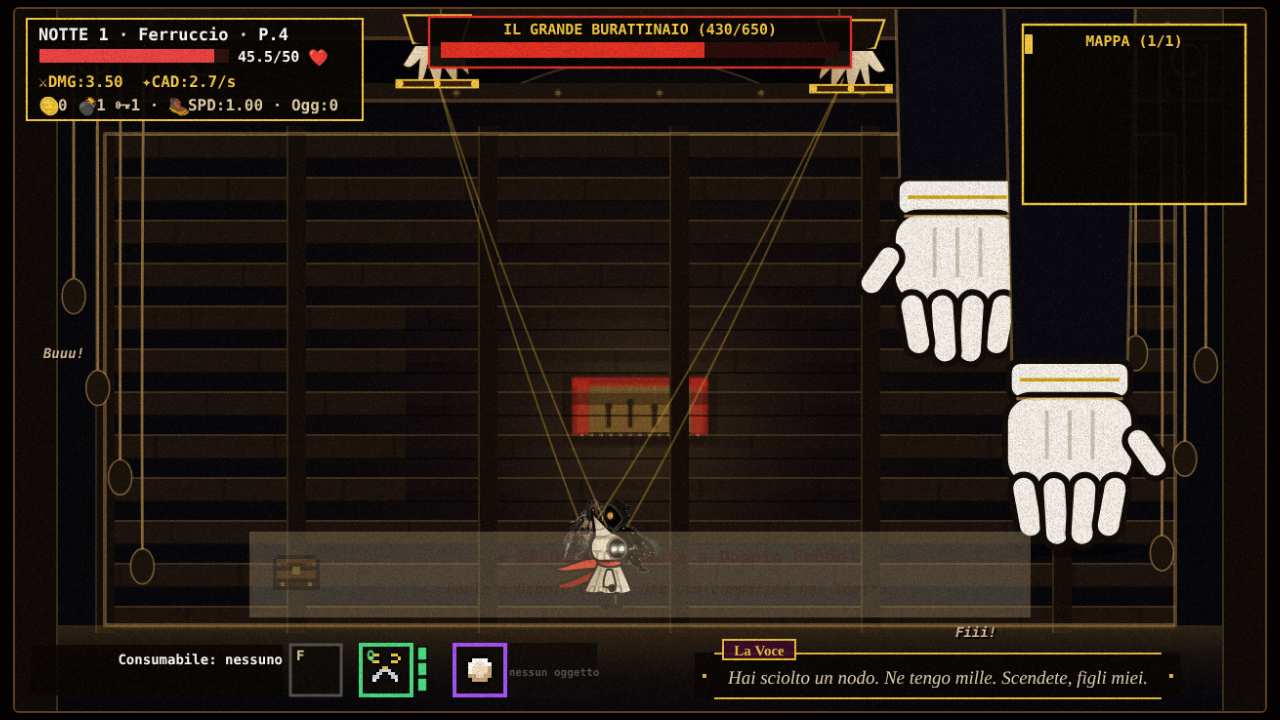
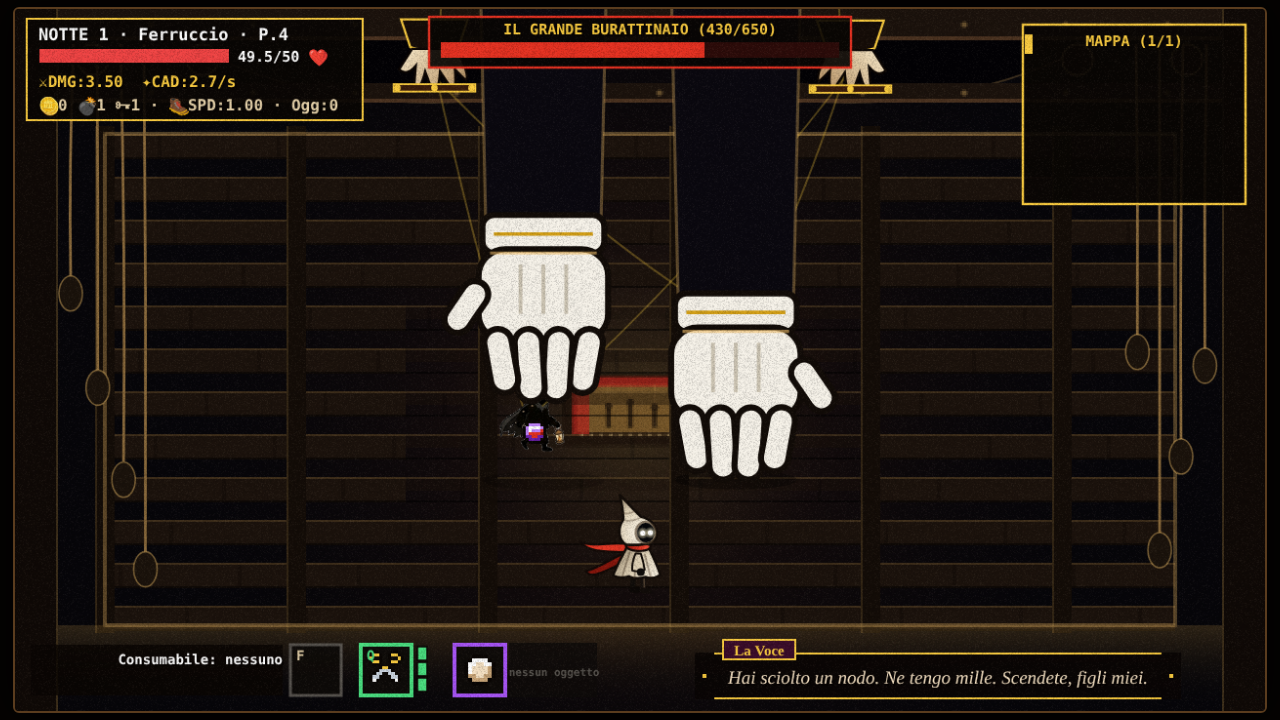
feat(teatro): d1 forbici colossali (si aprono, tremano, si chiudono di scatto) e squarcio vero nel tavolato; QA senza cartigli
Story: d1-burattinaio

Claude-Session: https://claude.ai/code/session_01F5x6kDAQ4qaiYDiFx9jQb5

diff --git a/gioco/teatro/d1-burattinaio.js b/gioco/teatro/d1-burattinaio.js
@@ -46,9 +46,9 @@ const BURATTINAIO_D1 = Object.freeze({
     moltTenaglie: 1.7,                 // sigillo delle tenaglie: tempo a terra ×
   }),
   forbici: Object.freeze({
-    raggio: 28, lunghezza: 128,
+    raggio: 30, lunghezza: 380,                  // lame lunghe quasi mezza arena, manici fuori quadro
     posa: 44, apre: 46, apreLima: 80, taglio: 24, piantate: 80, moltLima: 1.9, stacca: 22,
-    larghezzaTaglio: 15, danno: 2, cicatriciMax: 6,
+    larghezzaTaglio: 15, danno: 2, cicatriciMax: 4, squarcioTick: 300, tremitoApre: 2.2,
   }),
   marionette: Object.freeze({
     tipi: Object.freeze(['burattino', 'guardia', 'predone']),
@@ -456,7 +456,9 @@ function iaForbiciD1(f, puoAttaccare) {
     }
     case 'apre': { // le lame si aprono piano verso il bersaglio: l'avviso è la posa
       const dur = lima ? F.apreLima : F.apre;
-      f.apertura = 0.12 + 0.75 * Math.min(1, f.tD1 / dur);
+      f.apertura = 0.12 + 0.75 * Math.min(1, f.tD1 / dur) + (f.tD1 > dur * 0.5 ? Math.sin(f.tD1 * 2.3) * 0.03 : 0);
+      f.tremaD1 = f.tD1 > dur * 0.5 ? F.tremitoApre : 0;
+      if (f.tD1 === Math.round(dur * 0.5)) suonoD1('lama', 0.6);
       if (f.tD1 < dur * 0.6) { f.a = { x: player.x, y: player.y }; f.ang = Math.atan2(f.a.y - f.y, f.a.x - f.x); }
       if (f.tD1 >= dur) {
         // il taglio attraversa tutta l'arena lungo la diagonale scelta
@@ -474,7 +476,8 @@ function iaForbiciD1(f, puoAttaccare) {
       const k = Math.min(1, f.tD1 / F.taglio);
       const px = f.x, py = f.y;
       f.x = f.inizio.x + (f.fine.x - f.inizio.x) * k; f.y = f.inizio.y + (f.fine.y - f.inizio.y) * k; f.h = 4;
-      f.apertura = 0.87 * (1 - k);
+      f.apertura = k < 0.25 ? 0.87 * (1 - k / 0.25) : 0; // si chiudono di scatto
+      f.tremaD1 = 0;
       // segmento percorso in questo tick: tocca se il giocatore è vicino alla lama
       const dx = f.x - px, dy = f.y - py, l2 = dx * dx + dy * dy || 1;
       const u = Math.max(0, Math.min(1, ((player.x - px) * dx + (player.y - py) * dy) / l2));
@@ -571,6 +574,8 @@ function passoD1() {
   d1.t++;
   d1.tremito = Math.max(0, d1.tremito - 0.02);
   for (const e of d1.effetti) e.t++;
+  for (const c of d1.cicatrici) c.t++;
+  while (d1.cicatrici.length && d1.cicatrici[0].t > BURATTINAIO_D1.forbici.squarcioTick) d1.cicatrici.shift();
   for (let i = d1.effetti.length - 1; i >= 0; i--) if (d1.effetti[i].t > 90) d1.effetti.splice(i, 1);
   if (d1.vittoria) { passoVittoriaD1(); return; }
 
@@ -848,18 +853,42 @@ function disegnaArenaD1() {
   if (!telaFondoD1) telaFondoD1 = preparaFondoD1();
   if (!telaTraviD1) telaTraviD1 = preparaTraviD1();
   ctx.drawImage(telaFondoD1, 0, 0);
-  // i tagli delle forbici restano sulle tavole (dopo il colpo, mai prima)
-  ctx.save();
-  for (const c of d1.cicatrici) {
-    ctx.strokeStyle = 'rgba(0,0,0,0.85)'; ctx.lineWidth = 4;
-    ctx.beginPath(); ctx.moveTo(c.x1, c.y1); ctx.lineTo(c.x2, c.y2); ctx.stroke();
-    ctx.strokeStyle = 'rgba(232,176,80,0.35)'; ctx.lineWidth = 1;
-    ctx.beginPath(); ctx.moveTo(c.x1, c.y1 + 2); ctx.lineTo(c.x2, c.y2 + 2); ctx.stroke();
-  }
-  ctx.restore();
+  // i tagli delle forbici restano sulle tavole per qualche secondo (dopo il colpo, mai prima)
+  for (const c of d1.cicatrici) disegnaSquarcioD1(c);
   disegnaCapoD1();
   ctx.drawImage(telaTraviD1, 0, 0);
   disegnaCordeD1();
+}
+
+/** Lo squarcio del tavolato: assi spezzate, schegge, la luce del palco che sale dal buco. */
+function disegnaSquarcioD1(c) {
+  const vita = 1 - c.t / BURATTINAIO_D1.forbici.squarcioTick;
+  const dx = c.x2 - c.x1, dy = c.y2 - c.y1, L = Math.hypot(dx, dy) || 1;
+  const nx = -dy / L, ny = dx / L;
+  ctx.save();
+  ctx.globalAlpha = Math.min(1, vita * 1.6);
+  // luce calda che sale da sotto (più forte appena tagliato)
+  ctx.globalCompositeOperation = 'lighter';
+  ctx.strokeStyle = `rgba(232,176,80,${0.18 + 0.35 * vita})`; ctx.lineWidth = 16; ctx.lineCap = 'round';
+  ctx.beginPath(); ctx.moveTo(c.x1, c.y1); ctx.lineTo(c.x2, c.y2); ctx.stroke();
+  ctx.globalCompositeOperation = 'source-over';
+  // il buco: frastagliato, nero
+  ctx.fillStyle = '#020103';
+  ctx.beginPath();
+  const n = Math.max(6, Math.round(L / 18));
+  for (let i = 0; i <= n; i++) { const k = i / n, w = 3 + ((i * 7) % 4); ctx.lineTo(c.x1 + dx * k + nx * w, c.y1 + dy * k + ny * w); }
+  for (let i = n; i >= 0; i--) { const k = i / n, w = 3 + ((i * 5) % 4); ctx.lineTo(c.x1 + dx * k - nx * w, c.y1 + dy * k - ny * w); }
+  ctx.closePath(); ctx.fill();
+  // filo di luce nel fondo del buco
+  ctx.strokeStyle = `rgba(255,214,140,${0.5 * vita + 0.2})`; ctx.lineWidth = 1.2;
+  ctx.beginPath(); ctx.moveTo(c.x1, c.y1); ctx.lineTo(c.x2, c.y2); ctx.stroke();
+  // assi spezzate: schegge alzate ai bordi
+  ctx.strokeStyle = '#3a2716'; ctx.lineWidth = 2;
+  for (let i = 1; i < n; i += 2) {
+    const k = i / n, s = i % 4 === 1 ? 1 : -1, bx = c.x1 + dx * k + nx * 5 * s, by = c.y1 + dy * k + ny * 5 * s;
+    ctx.beginPath(); ctx.moveTo(bx, by); ctx.lineTo(bx + nx * 7 * s + dx / L * 3, by + ny * 7 * s - 4); ctx.stroke();
+  }
+  ctx.restore();
 }
 
 /** Guanto bianco. (x, y) = punto dove tocca le tavole; h = altezza da terra. */
@@ -924,7 +953,7 @@ function disegnaForbiciSagomaD1(x, y, ang, apertura, h, flash, alfa = 1) {
   ctx.save();
   ctx.globalAlpha *= alfa;
   ctx.fillStyle = `rgba(0,0,0,${0.3 * Math.max(0, 1 - h / 60)})`;
-  ctx.beginPath(); ctx.ellipse(x, y + 2, 26, 5, 0, 0, TAU); ctx.fill();
+  ctx.beginPath(); ctx.ellipse(x, y + 2, 30, 6, 0, 0, TAU); ctx.fill();
   ctx.translate(x, y - h - 6);
   ctx.rotate(ang);
   const lama = (segno) => {
@@ -932,23 +961,25 @@ function disegnaForbiciSagomaD1(x, y, ang, apertura, h, flash, alfa = 1) {
     const gr = ctx.createLinearGradient(0, -6, 0, 6);
     gr.addColorStop(0, TINTE_D1.ottoneLuce); gr.addColorStop(0.5, flash ? '#fff1c0' : TINTE_D1.ottone); gr.addColorStop(1, TINTE_D1.ottoneOmbra);
     ctx.fillStyle = gr;
-    ctx.beginPath(); ctx.moveTo(-6, -segno * 1); ctx.lineTo(L * 0.62, -segno * 6.5); ctx.lineTo(L * 0.62, segno * 0.5); ctx.closePath(); ctx.fill();
+    ctx.beginPath(); ctx.moveTo(-10, -segno * 2); ctx.quadraticCurveTo(L * 0.3, -segno * 17, L * 0.62, -segno * 1.5); ctx.lineTo(L * 0.62, segno * 0.5); ctx.lineTo(-10, segno * 3); ctx.closePath(); ctx.fill();
     ctx.strokeStyle = TINTE_D1.china; ctx.lineWidth = 1.3; ctx.stroke();
     // anello del manico
-    ctx.beginPath(); ctx.ellipse(-L * 0.28, segno * 5, 12, 7, segno * 0.3, 0, TAU);
-    ctx.strokeStyle = TINTE_D1.ottone; ctx.lineWidth = 4.5; ctx.stroke();
+    ctx.beginPath(); ctx.ellipse(-L * 0.24, segno * 14, 30, 16, segno * 0.3, 0, TAU);
+    ctx.strokeStyle = TINTE_D1.ottone; ctx.lineWidth = 8; ctx.stroke();
     ctx.strokeStyle = TINTE_D1.china; ctx.lineWidth = 1; ctx.stroke();
-    ctx.beginPath(); ctx.moveTo(-6, segno * 1); ctx.lineTo(-L * 0.18, segno * 4); ctx.strokeStyle = TINTE_D1.ottone; ctx.lineWidth = 4; ctx.stroke();
+    ctx.beginPath(); ctx.moveTo(-8, segno * 2); ctx.lineTo(-L * 0.17, segno * 10); ctx.strokeStyle = TINTE_D1.ottone; ctx.lineWidth = 8; ctx.stroke();
     ctx.restore();
   };
   lama(1); lama(-1);
-  ctx.fillStyle = '#2a1a06'; ctx.beginPath(); ctx.arc(0, 0, 4, 0, TAU); ctx.fill();
-  ctx.strokeStyle = TINTE_D1.ottoneLuce; ctx.lineWidth = 1; ctx.stroke();
+  ctx.fillStyle = '#2a1a06'; ctx.beginPath(); ctx.arc(0, 0, 9, 0, TAU); ctx.fill();
+  ctx.strokeStyle = TINTE_D1.ottoneLuce; ctx.lineWidth = 2; ctx.stroke();
+  ctx.strokeStyle = TINTE_D1.ottone; ctx.lineWidth = 1.5; ctx.beginPath(); ctx.moveTo(-5, 0); ctx.lineTo(5, 0); ctx.stroke();
   ctx.restore();
 }
 
 function disegnaForbiciD1(f) {
-  disegnaForbiciSagomaD1(f.x, f.y, f.ang || 0, f.apertura || 0, f.h || 0, f.flash > 0);
+  const tr = f.tremaD1 ? Math.sin(tick * 1.9) * f.tremaD1 : 0;
+  disegnaForbiciSagomaD1(f.x + tr, f.y, f.ang || 0, f.apertura || 0, f.h || 0, f.flash > 0);
   if (f.faseD1 === 'apre' && f.tD1 % 12 < 3) { // bagliore sulla lama aperta (sulla forbice, non a terra)
     ctx.save(); ctx.globalAlpha = 0.8; ctx.fillStyle = '#fff6d0';
     ctx.beginPath(); ctx.arc(f.x + Math.cos(f.ang) * 30, f.y - (f.h || 0) - 6 + Math.sin(f.ang) * 30, 2.4, 0, TAU); ctx.fill(); ctx.restore();

diff --git a/tools/qa-teatro-burattinaio.js b/tools/qa-teatro-burattinaio.js
@@ -45,6 +45,8 @@ const foto = (n) => `${prefisso}-${n}.png`;
     await p.keyboard.press('Space'); // menu → hub
     await p.waitForTimeout(400);
   };
+  /** Le foto devono mostrare lo scontro: via i cartigli «SBLOCCATO» del salvataggio vuoto. */
+  const senzaCartigli = () => p.evaluate(() => { try { a6.coda.length = 0; a6.notifica = null; } catch (_) { /* a6 assente */ } });
 
   // ---- 1. Zero sigilli: ingresso, attacchi, atti, vittoria ----
   await avvio();
@@ -59,13 +61,13 @@ const foto = (n) => `${prefisso}-${n}.png`;
   ok('zero-sigilli', !s.sigilli.tenaglie && !s.sigilli.punzone && !s.sigilli.lima, s.sigilli);
   await immortale();
   await p.waitForTimeout(2200);
-  await p.screenshot({ path: foto('01-atto1') });
+  await senzaCartigli(); await p.screenshot({ path: foto('01-atto1') });
   const pugno = await aspetta(() => window.__teatro.interni.burattinaioD1.stato().parti.some((x) => x.fase === 'pugno'), 12000, 50);
   ok('mano-a-pugno', pugno);
-  await p.screenshot({ path: foto('02-pugno') });
+  await senzaCartigli(); await p.screenshot({ path: foto('02-pugno') });
   const colpo = await aspetta(() => window.__teatro.interni.burattinaioD1.stato().parti.some((x) => x.fase === 'terra'), 6000, 50);
   ok('mano-a-terra', colpo);
-  await p.screenshot({ path: foto('03-schianto') });
+  await senzaCartigli(); await p.screenshot({ path: foto('03-schianto') });
 
   // pausa: lo scontro si ferma
   await p.keyboard.press('Escape');
@@ -85,10 +87,10 @@ const foto = (n) => `${prefisso}-${n}.png`;
   const marionette = await aspetta(() => window.__teatro.interni.burattinaioD1.stato().parti.some((x) => x.elite), 12000);
   ok('marionette-elite', marionette, (await S()).parti);
   await p.waitForTimeout(900);
-  await p.screenshot({ path: foto('04-atto2') });
+  await senzaCartigli(); await p.screenshot({ path: foto('04-atto2') });
   const presa = await aspetta(() => window.__teatro.interni.burattinaioD1.stato().parti.some((x) => x.fase === 'segui' || x.fase === 'chiude' || x.fase === 'tiene'), 15000, 50);
   ok('presa-tentata', presa);
-  await p.screenshot({ path: foto('05-presa') });
+  await senzaCartigli(); await p.screenshot({ path: foto('05-presa') });
 
   // atto III
   await p.evaluate(() => window.__teatro.interni.burattinaioD1.danneggia(500));
@@ -98,22 +100,22 @@ const foto = (n) => `${prefisso}-${n}.png`;
   const apre = await aspetta(() => window.__teatro.interni.burattinaioD1.stato().parti.some((x) => x.id === 'gb-forbici' && x.fase === 'apre'), 12000, 50);
   ok('forbici-aprono', apre);
   await p.waitForTimeout(400);
-  await p.screenshot({ path: foto('06-forbici') });
+  await senzaCartigli(); await p.screenshot({ path: foto('06-forbici') });
   const piantate = await aspetta(() => window.__teatro.interni.burattinaioD1.stato().parti.some((x) => x.id === 'gb-forbici' && x.fase === 'piantate'), 8000, 50);
   ok('forbici-tagliano', piantate);
-  await p.screenshot({ path: foto('07-taglio') });
+  await senzaCartigli(); await p.screenshot({ path: foto('07-taglio') });
 
   // vittoria
   const capoPrima = (await S()).capo;
   await p.evaluate(() => window.__teatro.interni.burattinaioD1.danneggia(999));
   ok('vittoria-scena', await aspetta(() => window.__teatro.interni.burattinaioD1.stato().vittoria, 3000));
   await p.waitForTimeout(1300);
-  await p.screenshot({ path: foto('08-vittoria') });
+  await senzaCartigli(); await p.screenshot({ path: foto('08-vittoria') });
   ok('fine-chiamata', await aspetta(() => window.__teatro.interni.burattinaioD1.stato().esito === 'vittoria', 8000), capoPrima);
   await p.waitForTimeout(600);
   const dopo = await p.evaluate(() => ({ attivo: window.__teatro.interni.burattinaioD1.stato().attivo, fase: statoRun.fase }));
   ok('scontro-spento', !dopo.attivo, dopo);
-  await p.screenshot({ path: foto('09-finale-narrato') });
+  await senzaCartigli(); await p.screenshot({ path: foto('09-finale-narrato') });
   // il finale narrato va avanti a Spazio fino al ritorno
   for (let i = 0; i < 120 && ['in_gioco', 'finale'].includes(await fase()); i++) { await p.keyboard.press('Space'); await p.waitForTimeout(120); }
   const fin = await fase();
@@ -129,11 +131,11 @@ const foto = (n) => `${prefisso}-${n}.png`;
   await p.evaluate(() => { statoRun.hpHalf = 1; });
   const morto = await aspetta(() => statoRun.fase !== 'in_gioco', 25000, 100);
   ok('morte-dal-burattinaio', morto && (await fase()) === 'morte', await fase());
-  await p.screenshot({ path: foto('10-morte') });
+  await senzaCartigli(); await p.screenshot({ path: foto('10-morte') });
   ok('torna-hub', await aspetta(() => statoRun.fase === 'hub', 20000), await fase());
   await p.waitForTimeout(300);
   ok('stato-pulito-dopo-morte', !(await S()).attivo, await S());
-  await p.screenshot({ path: foto('11-hub-dopo-morte') });
+  await senzaCartigli(); await p.screenshot({ path: foto('11-hub-dopo-morte') });
 
   // ---- 3. Aggancio vero di b8 ----
   const via = await p.evaluate(() => window.__teatro.interni.entraSopraLaRibalta());
